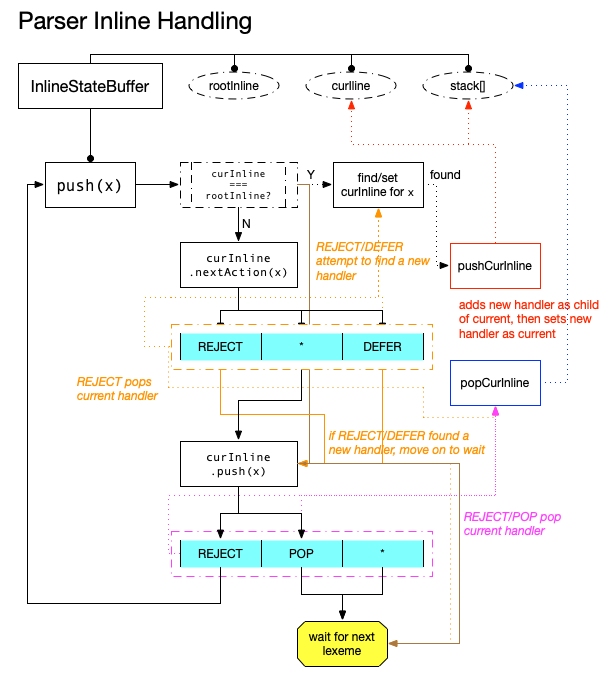
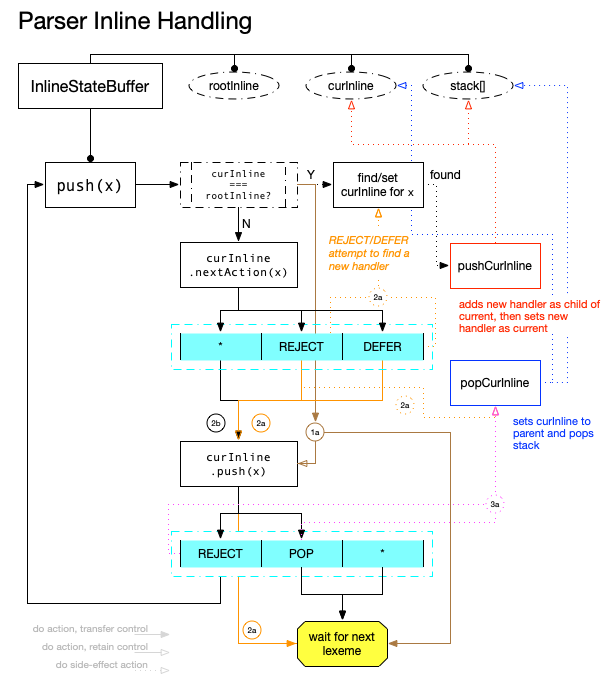
doc tweaks (#8)

diff --git a/docs/inline-parser.md b/docs/inline-parser.md
@@ -14,24 +14,25 @@ To start, there's a `rootInline` handler, which directly or indirectly wraps all
 ![InlineStateBuffer flow](diagrams/overview/parser-inline.png)
 
 - `push(x)`
-    - if `curLine == rootInline`
+    - if `curLine == rootInline` (1a)
         - find better handler for lexeme. if found:
             1. push as child of `curInline`
             2. set to `curInline`
         - `curLine.push(x)` and wait
     - otherwise, check `curInline.nextAction(x)`
-        - if `REJECT`
+        - if `REJECT` (2a)
             - set `curInline = stack.pop()`
-        - if `REJECT` or `DEFER`
+        - if `REJECT` or `DEFER` (2a)
             - find better handler for lexeme
             - if found,
                 - do `curInline.push(x)` and wait
     - check `curLine.push(x)` (essentially `CONTINUE`)
         - if `REJECT`
-            - set `curInline = stack.pop()`
+            - set `curInline = stack.pop()` (3a)
             - call `push(x)`
         - if `POP`
-            - set `curInline = stack.pop()` and wait
+            - set `curInline = stack.pop()` (3a) and wait
+        - else, wait
 
 After all that, a tree such as the following is produced:
 

diff --git a/readme.md b/readme.md
@@ -103,6 +103,8 @@ That's basically it! You can see it all put together in [<code>readme.example.ts
 
 Take a deeper dive:
 
+- [Lexemes](./docs/lexer.md)
 - [Block ParserContext](./docs/block-parser.md)
 - [Inline ParserContext](./docs/inline-parser.md)
-- [Lexemes](./docs/lexer.md)
+- [Doc Settings](./docs/doc-settings.md)
+- [Plugins](./docs/plugin.md)
